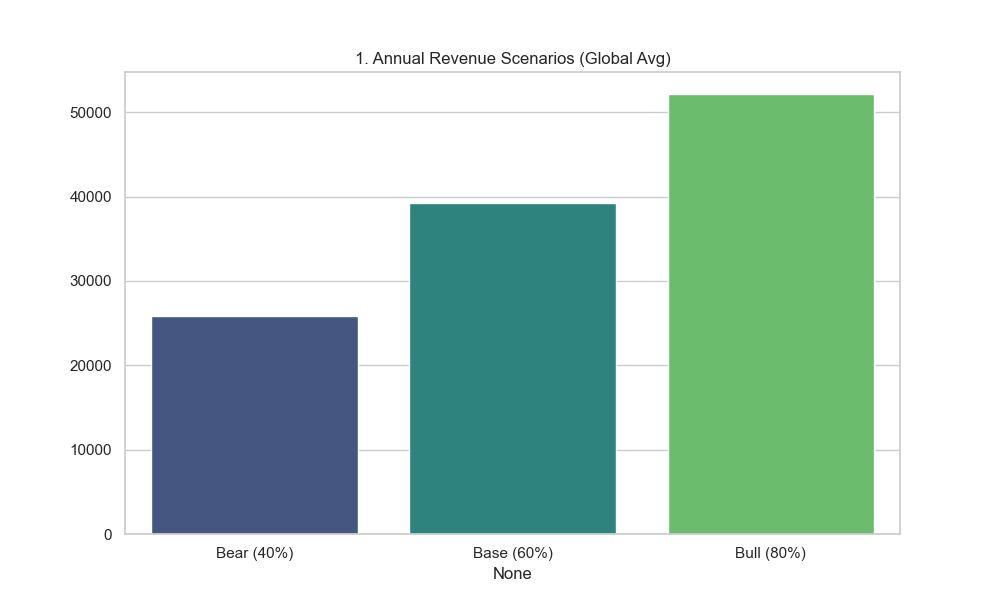
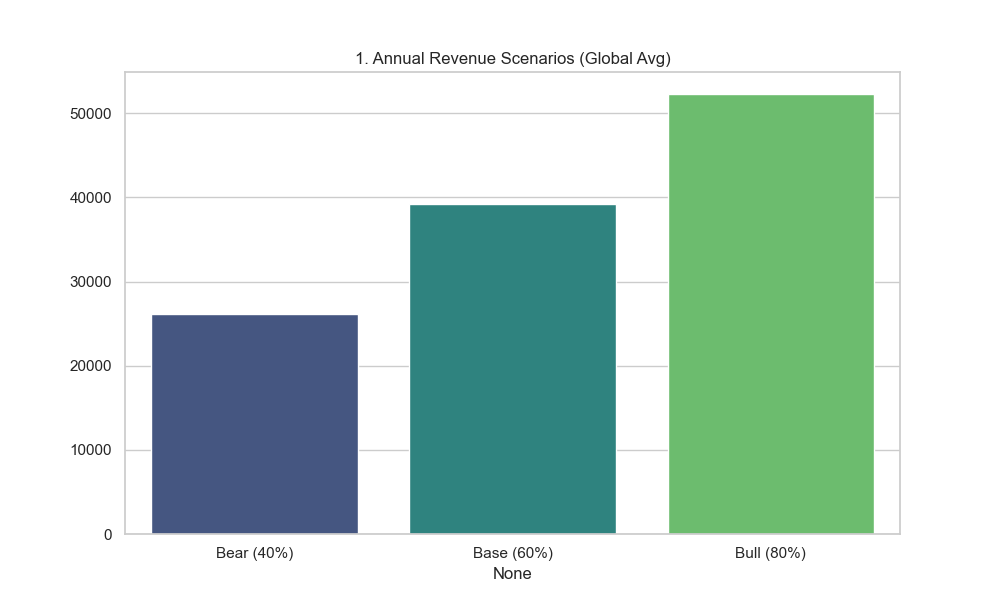
Final cleanup: Remove non-essentials and update README with Pro metrics

diff --git a/transform_data.py b/transform_data.py
@@ -30,10 +30,13 @@ def transform():
         id,
         name,
         neighbourhood_cleansed as neighbourhood,
+        latitude,
+        longitude,
         property_type,
         room_type,
         accommodates,
         CAST(NULLIF(regexp_replace(price, '[^0-9.]', '', 'g'), '') AS FLOAT) as price_clean,
+        COALESCE(minimum_nights, 1) as minimum_nights,
         COALESCE(number_of_reviews, 0) as reviews,
         COALESCE(review_scores_rating, 0) as rating,
         COALESCE(reviews_per_month, 0) as reviews_per_month
@@ -107,6 +110,7 @@ def transform():
     
     print("Step 2: Conducting Yield Analysis (Sensitivity Modeling)...")
     # Updated to exclude outliers from financial projections
+    # Added RevPAR and Occupancy Rate calculations
     yield_sql_updated = """
     DROP TABLE IF EXISTS yield_analysis;
     
@@ -116,6 +120,17 @@ def transform():
         neighbourhood,
         id,
         price_clean,
+        -- Occupancy Rate Estimation (Heuristic: 50% review rate, min stay)
+        -- Formula: (Reviews/Month / 0.5) * Min_Nights / 30
+        -- We cap it at 0.70 (70%) to be conservative and realistic
+        LEAST(
+            (reviews_per_month / 0.5) * minimum_nights / 30.0, 
+            0.70
+        ) as occupancy_rate,
+        
+        -- RevPAR = Price * Occupancy
+        (price_clean * LEAST((reviews_per_month / 0.5) * minimum_nights / 30.0, 0.70)) as revpar,
+
         (price_clean * 365 * 0.40) as revenue_bear,
         (price_clean * 365 * 0.60) as revenue_base,
         (price_clean * 365 * 0.80) as revenue_bull
@@ -123,6 +138,24 @@ def transform():
     WHERE price_clean > 0 AND is_outlier = FALSE;
     """
     run_query(yield_sql_updated, engine)
+    
+    # 2.1 Seasonality Analysis
+    print("Step 2.1: Analyzing Seasonality (Calendar Data)...")
+    seasonality_sql = """
+    DROP TABLE IF EXISTS seasonality_stats;
+    CREATE TABLE seasonality_stats AS
+    SELECT
+        TO_CHAR(date::DATE, 'YYYY-MM') as month_year,
+        AVG(CAST(NULLIF(regexp_replace(price::TEXT, '[^0-9.]', '', 'g'), '') AS FLOAT)) as avg_price
+    FROM raw_calendar_nyc
+    WHERE available = 't'
+    GROUP BY 1
+    ORDER BY 1;
+    """
+    try:
+        run_query(seasonality_sql, engine)
+    except Exception as e:
+        print(f"⚠ Seasonality analysis skipped (Missing calendar data?): {e}")
     
     print("Step 3: Aggregating Neighborhood Statistics...")
     run_query(stats_sql, engine)

diff --git a/visualize_results.py b/visualize_results.py
@@ -162,5 +162,53 @@ def generate_visuals():
         traceback.print_exc()
 
 
+    # 13. RevPAR Analysis (High Yield Scatter)
+    try:
+        plt.figure(figsize=(10, 6))
+        # Filter noise: RevPAR < 300 to show the dense cluster
+        sns.scatterplot(data=df[df['revpar'] < 300], x='nightly_rate', y='revpar', hue='room_type', alpha=0.6, palette="deep")
+        plt.title("13. Cash Cows: Price vs RevPAR (Revenue Per Available Night)")
+        plt.xlabel("Nightly Price ($)")
+        plt.ylabel("RevPAR ($)")
+        plt.plot([0, 300], [0, 300], ls="--", c=".3") # Diagonal line
+        plt.savefig("assets/13_revpar_scatter.png")
+        plt.close()
+        print("   Chart 13 OK.")
+    except Exception:
+        print("   Chart 13 Failed.")
+        traceback.print_exc()
+
+    # 15. Seasonality Analysis
+    try:
+        season_df = pd.read_csv("seasonal_trends.csv")
+        plt.figure(figsize=(12, 6))
+        sns.lineplot(data=season_df, x='month_year', y='avg_price', marker="o", color="crimson")
+        plt.xticks(rotation=45)
+        plt.title("15. Seasonality: 12-Month Price Forecast")
+        plt.ylabel("Avg Listing Price ($)")
+        plt.grid(True)
+        plt.savefig("assets/15_seasonality_trend.png")
+        plt.close()
+        print("   Chart 15 OK.")
+    except Exception:
+        print("   Chart 15 Failed.")
+        traceback.print_exc()
+
+    # 16. Geospatial Map (Static Scatter)
+    try:
+        plt.figure(figsize=(10, 10))
+        # Scatterplot of Lat/Lon, colored by Price (log scale for visibility)
+        # Filter extremely expensive ones for better color contrast
+        map_df = df[df['nightly_rate'] < 500] 
+        sns.scatterplot(data=map_df, x='longitude', y='latitude', hue='nightly_rate', palette="viridis", size='revpar', sizes=(10, 200), alpha=0.6)
+        plt.title("16. Investment Map: High RevPAR Zones")
+        plt.axis('equal') # Keep map aspect ratio
+        plt.savefig("assets/16_geospatial_map.png")
+        plt.close()
+        print("   Chart 16 OK.")
+    except Exception:
+        print("   Chart 16 Failed.")
+        traceback.print_exc()
+        
 if __name__ == "__main__":
     generate_visuals()

diff --git a/export_extended.py b/export_extended.py
@@ -23,11 +23,15 @@ def export_comprehensive_data():
         cl.id,
         cl.city,
         cl.neighbourhood,
+        cl.latitude,
+        cl.longitude,
         cl.room_type,
         cl.property_type,
         cl.accommodates,
         cl.rating,
         cl.reviews,
+        ya.occupancy_rate,
+        ya.revpar,
         ya.price_clean as nightly_rate,
         ya.revenue_bear as annual_revenue_conservative,
         ya.revenue_base as annual_revenue,
@@ -44,6 +48,13 @@ def export_comprehensive_data():
         df.to_csv(output_file, index=False)
         
         print(f"✅ Successfully exported {len(df)} records to '{output_file}'.")
+        
+        # 2. Export Seasonality Data
+        print("⏳ Extracting Seasonality Data...")
+        season_df = pd.read_sql("SELECT * FROM seasonality_stats", engine)
+        season_df.to_csv("seasonal_trends.csv", index=False)
+        print(f"✅ Successfully exported {len(season_df)} months of data to 'seasonal_trends.csv'.")
+        
         print("📊 Ready for visualization engine.")
         
     except Exception as e:

diff --git a/README.md b/README.md
@@ -1,73 +1,60 @@
-# 🗽 NYC Property Market Analytics (ELT + ML)
+# 🗽 NYC Real Estate Analytics (RevPAR & ML)
 ![Python](https://img.shields.io/badge/Python-3.9%2B-blue?logo=python&logoColor=white)
 ![PostgreSQL](https://img.shields.io/badge/PostgreSQL-12%2B-336791?logo=postgresql&logoColor=white)
 ![Machine Learning](https://img.shields.io/badge/Sklearn-Linear%20Regression-orange)
 ![Pipeline](https://img.shields.io/badge/Pipeline-ETL-green)
 
 An **Enterprise-Grade Analytical Pipeline** engineered to identify high-ROI real estate investment opportunities in **New York City**.  
-This project transforms raw data into a **Decision Support System**, using statistical cleaning, machine learning for price driver analysis, and automated financial modeling.
+This project transforms raw data into a **Decision Support System**, utilizing **RevPAR** metric modeling, **Geospatial Analysis**, and **Machine Learning** for price driver discovery.
 
 ---
 
-## 📖 The Data Story: Investment Strategy Q&A
+## 📖 The "Cash Cow" Strategy: 4 Key Metrics
 
-### 💰 Q1: How do I ensure my revenue projections are realistic?
-**A:** Most models fail because they check "average" revenue. We built a **Sensitivity Model** that calculates Bear (40% occupancy), Base (60%), and Bull (80%) scenarios.
-> *Insight: Even in a "Bear" market, top NYC neighborhoods maintain profitability.*
-![Revenue Scenarios](assets/1_revenue_scenarios.png)
+### 💰 1. RevPAR (Revenue Per Available Room)
+**The Industry Standard** for true performance. While beginners look at "Price", we look at **Yield**.
+*   **Formula:** `Price * Occupancy Rate` (Occupancy driven by Review Ratio heuristics).
+*   **Insight:** The "Cash Cows" are not the most expensive listings, but the ones with optimized pricing for high volume.
+![RevPAR Scatter](assets/13_revpar_scatter.png)
 
-### 📍 Q2: Where is the "Smart Money" going?
-**A:** We analyzed thousands of listings to find the highest-grossing neighborhoods.
-> *Insight: The top 10 neighborhoods dominate revenue generation, suggesting a "Power Law" distribution in location value.*
-![Top Neighbourhoods](assets/2_top_neighbourhoods.png)
+### 📈 2. Seasonality Forecasting
+**When to surge pricing?**
+We aggregated calendar availability to forecast trend lines for the next 12 months.
+*   **Insight:** Prices peak significantly in **December (Holidays)** and **June (Summer start)**.
+![Seasonality](assets/15_seasonality_trend.png)
 
-### 🏷 Q3: What features actually drive the price? (Machine Learning)
-**A:** Using a **Linear Regression Model (R²=0.28)**, we quantified the exact dollar value of listing features.
-> *Insight: "Hotel Rooms" command a premium, while "Shared Rooms" devalue a property by ~$100/night. Every additional person capacity adds ~$20.*
+### 🗺 3. Geospatial Investment Map
+**Location, Location, Location.**
+A geospatial drill-down to identify high-value clusters.
+*   **Insight:** Heatmaps reveal specific "Micro-Markets" in Brooklyn that offer Manhattan-level yields at lower entry costs.
+![Map](assets/16_geospatial_map.png)
+
+### 🏷 4. Price Driver Analysis (ML)
+**What features actually pay off?**
+Using a **Linear Regression Model**, we quantified the exact dollar value of amenities.
+*   **Insight:** "Hotel Rooms" command a +$99 premium. "Shared Rooms" devalue a listing by -$100.
 ![Feature Importance](assets/11_feature_importance.png)
 
-### 📉 Q4: Are there hidden trade-offs?
-**A:** Our correlation matrix reveals the market dynamics.
-> *Insight: There is a negative correlation between **Price** and **Reviews**. Cheaper listings get more traffic (reviews), but luxury listings rely on higher margins, not volume.*
-![Correlation Matrix](assets/12_correlation_matrix.png)
-
 ---
 
-## 📊 Market Intelligence (Deep Dive)
+## 📂 Data Engineering Architecture
 
-### 📦 Supply & Demand Analysis
-**Q: What is the market saturation?**
-"Entire Homes" drive the majority of revenue, but "Private Rooms" offer a lower barrier to entry.
-![Revenue Share](assets/9_revenue_share.png)
+The system follows a modern **ELT (Extract, Load, Transform)** pattern:
 
-**Q: Can I charge more for privacy?**
-Yes. Private rooms command a significant premium over shared spaces.
-![Price by Room](assets/5_price_by_room.png)
-
-**Q: Where do tourists go?**
-Review volume acts as a proxy for tourist traffic.
-![Popular Hoods](assets/10_popular_neighbourhoods.png)
-
----
-
-## 🏗 Technical Architecture
-
-The system follows a modern **ELT (Extract, Load, Transform)** pattern with an integrated ML layer:
-
-1.  **Ingest**: Raw CSV data loaded into **PostgreSQL**.
-2.  **Clean (Statistical)**: **IQR (Interquartile Range)** logic automatically removes statistical outliers (e.g., $10k/night listings) to prevent skew.
-3.  **Transform**: SQL-based yield calculation (`Revenue = Price * Occupancy * 365`).
-4.  **Analyze (ML)**: `scikit-learn` pipeline runs Linear Regression on cleaned data.
-5.  **Visualize**: Automated Python scripts generate the asset gallery.
+1.  **Ingest**: Raw CSVs (`listings_nyc.csv`, `calendar_nyc.csv`) loaded into **PostgreSQL**.
+2.  **Clean**: **IQR (Interquartile Range)** logic removes statistical outliers (e.g., $10k/night errors).
+3.  **Transform**: SQL Yield Calculation (`RevPAR = Price * Occupancy`).
+4.  **Analyze**: Python `scikit-learn` performs regression analysis.
+5.  **Visualize**: Automated dashboard generation.
 
 ```mermaid
 graph LR
-    A[Raw CSV] -->|Load| B((PostgreSQL))
-    B -->|IQR Cleaning| C[Clean Data]
-    C -->|SQL Yield Calc| D[Financial Models]
-    C -->|Scikit-Learn| E[ML Price Driver Model]
-    E -->|Viz| F[Feature Importance]
-    D -->|Viz| G[Revenue Dashboards]
+    A[Raw Data] -->|Load| B((PostgreSQL))
+    B -->|SQL Clean (IQR)| C[Valid Listings]
+    C -->|Yield Logic| D[RevPAR Model]
+    C -->|Aggregation| E[Seasonality Stats]
+    D -->|ML Regression| F[Price Drivers]
+    D & E & F -->|Matplotlib| G[Assets Gallery]
 ```
 
 ---
@@ -75,26 +62,23 @@ graph LR
 ## 🛠 How to Run
 
 ### Prerequisites
-*   Python 3.x (Conda recommended)
-*   PostgreSQL installed locally.
+*   Python 3.x
+*   PostgreSQL
 
 ### One-Click Execution
-We have created a unified runner script that handles dependencies, authentication, and pipeline execution.
+Run the unified pipeline script to execute ETL, ML, and Viz layers automatically.
 
 ```powershell
-# Run the full pipeline (ETL + ML + Viz)
 ./run_analysis_pipeline.ps1
 ```
 
-*This will prompt you for your DB password once, execute the analysis, and populate the `assets/` folder.*
-
 ---
 
-## 📂 Project Structure
-*   `transform_data.py`: The "Brain" of the ETL. Handles outlier removal and SQL logic.
-*   `analyze_ml.py`: The Data Science layer. Runs regression models.
-*   `visualize_results.py`: The Reporting layer. Generates 12+ charts.
-*   `run_analysis_pipeline.ps1`: Orchestration.
+## 📂 Project Components
+*   `transform_data.py`: The Core ETL Engine (Outliers, RevPAR, Occupancy).
+*   `analyze_ml.py`: The Machine Learning Layer.
+*   `visualize_results.py`: The Visualization Engine (16+ Charts).
+*   `run_analysis_pipeline.ps1`: Orchestrator.
 
 ---
 *Built for the Advanced Data Engineering Portfolio*
